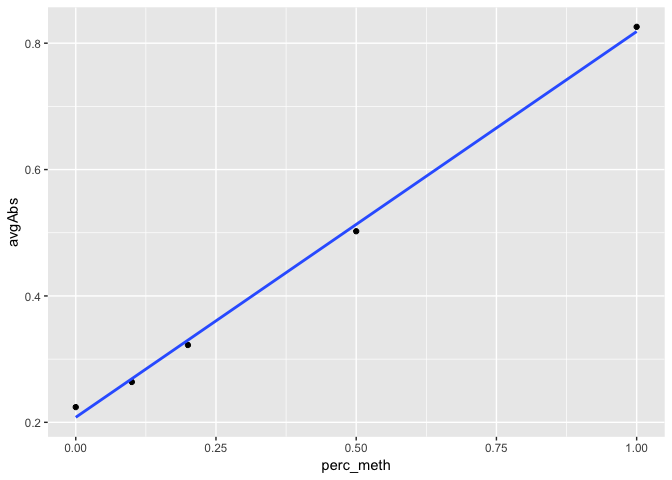
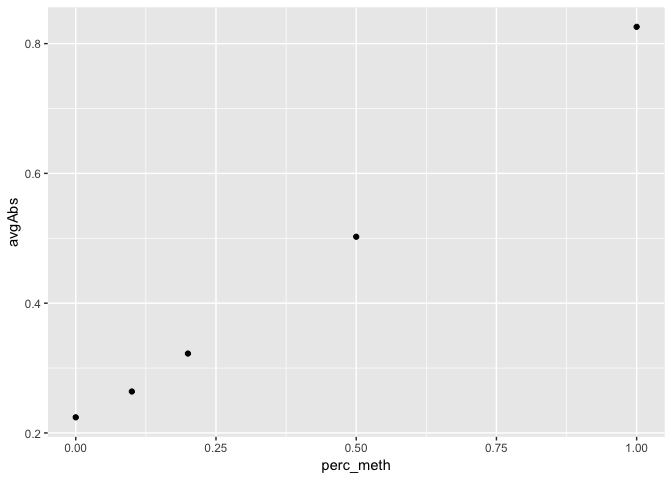
Analysis of ctenidia ploidy x heatstress global DNA methylation

diff --git a/Polyploids/GlobalDNAMeth_Polyploids.md b/Polyploids/GlobalDNAMeth_Polyploids.md
@@ -144,7 +144,7 @@ ggplot(curve, aes(perc_meth, avgAbs)) + geom_point()
 last two points are plateauing so remove them
 
 ``` r
-ggplot(curve[which(curve$perc_meth < 5.0),], aes(perc_meth, avgAbs)) + geom_point() + geom_smooth(method = "lm", se = FALSE)
+ggplot(curve[which(curve$perc_meth < 5.0),], aes(perc_meth, avgAbs)) + geom_point() 
 ```
 
 ![](GlobalDNAMeth_Polyploids_files/figure-markdown_github/unnamed-chunk-9-1.png)
@@ -295,6 +295,12 @@ tuk
 
 **Conclusions: Effect of ploidy and heat stress on global 5-mC DNA methylation**
 Based on the Tukey's test results:
-1. The diploid heat stress %5-mC methylation is significantly different from a. the diploid control b. the triploid control c. the triploid heatstress 2. The triploid heat stress %5-mC is not different than the diploid or triploid controls.
+
+1.  The diploid heat stress %5-mC methylation is significantly different from
+    -   the diploid control
+    -   the triploid control
+    -   the triploid heatstress
+
+2.  The triploid heat stress %5-mC is not different than the diploid or triploid controls.
 
 In summary, diploid ctenidia shows a significant increase in global 5-mC methylation in response to heatstress while triploid ctenidia does not.
